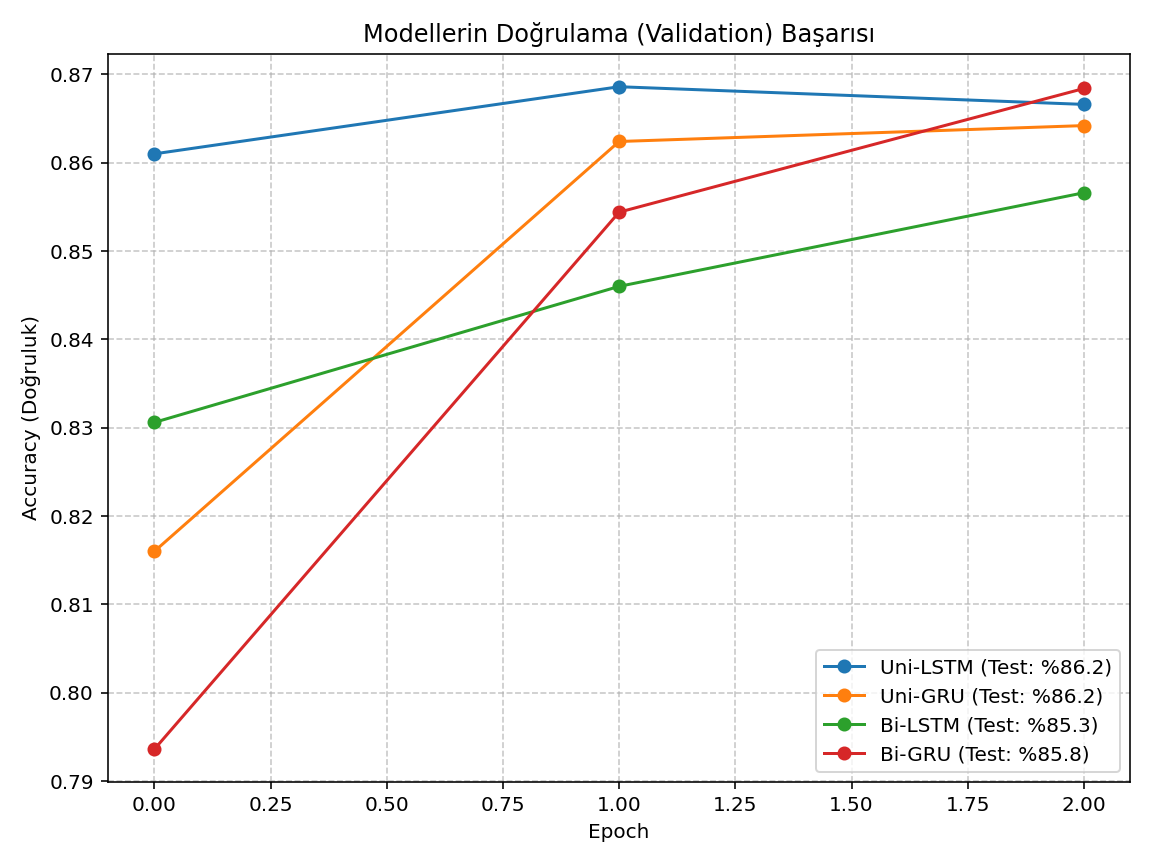
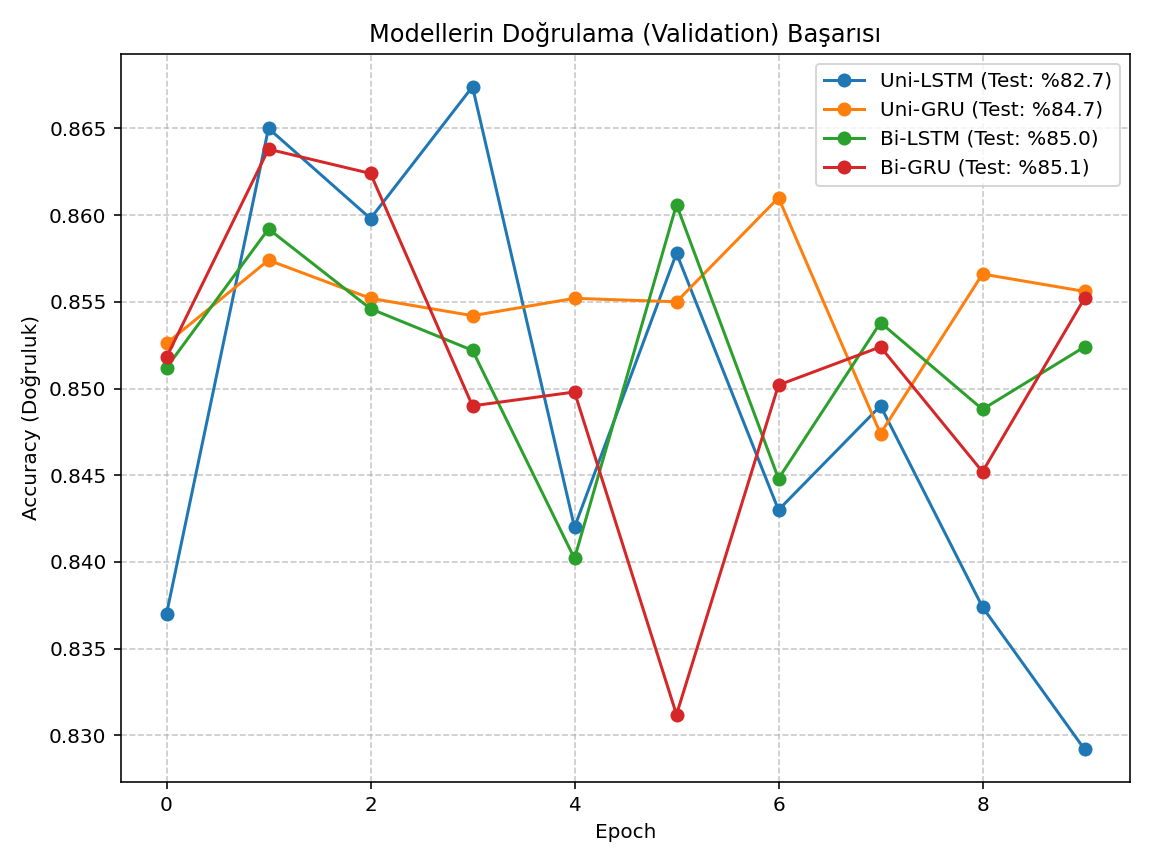
dropout-ve-early-stopping-eklendi

diff --git a/character-level-dil-modeli.py b/character-level-dil-modeli.py
@@ -3,6 +3,7 @@ import numpy as np
 import os
 import requests
 import matplotlib.pyplot as plt
+from tensorflow.keras.callbacks import EarlyStopping, ModelCheckpoint
 
 # Görsellerin kaydedileceği klasörü oluştur
 os.makedirs('images', exist_ok=True)
@@ -18,27 +19,40 @@ text = response.text
 vocab = sorted(set(text))
 char2idx = {u: i for i, u in enumerate(vocab)}
 idx2char = np.array(vocab)
-text_as_int = np.array([char2idx[c] for c in text])
+
+# YENİ: Early Stopping çalışabilsin diye veriyi Train (%90) ve Validation (%10) olarak ikiye bölüyoruz
+split_idx = int(len(text) * 0.9)
+train_text = text[:split_idx]
+val_text = text[split_idx:]
+
+train_as_int = np.array([char2idx[c] for c in train_text])
+val_as_int = np.array([char2idx[c] for c in val_text])
 
 # ==========================================
 # 2. EĞİTİM VERİSİNİN OLUŞTURULMASI
 # ==========================================
 seq_length = 100 
-char_dataset = tf.data.Dataset.from_tensor_slices(text_as_int)
-sequences = char_dataset.batch(seq_length + 1, drop_remainder=True)
+BATCH_SIZE = 64
+BUFFER_SIZE = 10000
 
 def split_input_target(chunk):
     input_text = chunk[:-1]
     target_text = chunk[1:]
     return input_text, target_text
 
-dataset = sequences.map(split_input_target)
-BATCH_SIZE = 64
-BUFFER_SIZE = 10000
-dataset = dataset.shuffle(BUFFER_SIZE).batch(BATCH_SIZE, drop_remainder=True)
+def create_dataset(data_array):
+    dataset = tf.data.Dataset.from_tensor_slices(data_array)
+    dataset = dataset.batch(seq_length + 1, drop_remainder=True)
+    dataset = dataset.map(split_input_target)
+    dataset = dataset.shuffle(BUFFER_SIZE).batch(BATCH_SIZE, drop_remainder=True)
+    return dataset
+
+# Hem eğitim hem doğrulama setlerini oluştur
+train_dataset = create_dataset(train_as_int)
+val_dataset = create_dataset(val_as_int)
 
 # ==========================================
-# 3. LSTM MODELİNİN İNŞASI
+# 3. LSTM MODELİNİN İNŞASI (DROPOUT EKLENDİ)
 # ==========================================
 vocab_size = len(vocab)
 embedding_dim = 256
@@ -46,8 +60,12 @@ rnn_units = 512
 
 def build_model(vocab_size, embedding_dim, rnn_units, batch_size):
     model = tf.keras.Sequential([
-        tf.keras.layers.Embedding(vocab_size, embedding_dim, batch_input_shape=[batch_size, None]),
-        tf.keras.layers.LSTM(rnn_units, return_sequences=True, stateful=True, recurrent_initializer='glorot_uniform'),
+        tf.keras.Input(batch_shape=[batch_size, None]),
+        tf.keras.layers.Embedding(vocab_size, embedding_dim),
+        tf.keras.layers.Dropout(0.2), # Dropout eklendi
+        tf.keras.layers.LSTM(rnn_units, return_sequences=True, stateful=True, 
+                             recurrent_initializer='glorot_uniform', dropout=0.2), # LSTM içine Dropout
+        tf.keras.layers.Dropout(0.2), # Çıktıdan önce Dropout
         tf.keras.layers.Dense(vocab_size)
     ])
     return model
@@ -60,35 +78,58 @@ def loss(labels, logits):
 model.compile(optimizer='adam', loss=loss)
 
 # ==========================================
-# 4. EĞİTİM VE GRAFİK KAYDETME
+# 4. EĞİTİM, EARLY STOPPING VE GRAFİK KAYDETME
 # ==========================================
 checkpoint_dir = './training_checkpoints'
-checkpoint_prefix = os.path.join(checkpoint_dir, "ckpt_{epoch}")
-checkpoint_callback = tf.keras.callbacks.ModelCheckpoint(filepath=checkpoint_prefix, save_weights_only=True)
+os.makedirs(checkpoint_dir, exist_ok=True)
 
-EPOCHS = 10 
-print("Eğitim başlıyor...")
-history = model.fit(dataset, epochs=EPOCHS, callbacks=[checkpoint_callback])
+# Sadece tek bir "en iyi" ağırlık dosyasını tutacağız
+best_checkpoint_path = os.path.join(checkpoint_dir, "best_char_rnn.weights.h5")
 
-# Eğitim Kaybı (Loss) Grafiğini Çizdir ve Kaydet
+# Early Stopping: val_loss 5 epoch boyunca düşmezse eğitimi durdur ve en iyiyi yükle
+early_stop = EarlyStopping(
+    monitor='val_loss', 
+    patience=5, 
+    restore_best_weights=True, 
+    verbose=1
+)
+
+checkpoint_callback = ModelCheckpoint(
+    filepath=best_checkpoint_path, 
+    save_weights_only=True,
+    save_best_only=True,
+    monitor='val_loss',
+    verbose=1
+)
+
+EPOCHS = 40 # Early stopping olduğu için limiti yüksek tutuyoruz
+print("\nEğitim başlıyor...")
+history = model.fit(
+    train_dataset, 
+    validation_data=val_dataset, # Validation verisi eklendi
+    epochs=EPOCHS, 
+    callbacks=[checkpoint_callback, early_stop]
+)
+
+# Eğitim ve Doğrulama Kaybı (Loss) Grafiğini Çizdir ve Kaydet
 plt.figure(figsize=(8, 6))
-plt.plot(history.history['loss'], marker='o', color='purple', label='Eğitim Kaybı (Training Loss)')
-plt.title('Karakter Seviyeli Dil Modeli Eğitim Kaybı')
+plt.plot(history.history['loss'], marker='o', color='purple', label='Eğitim Kaybı (Train Loss)')
+plt.plot(history.history['val_loss'], marker='s', color='orange', label='Doğrulama Kaybı (Val Loss)')
+plt.title('Karakter Seviyeli Dil Modeli Kayıp Grafiği')
 plt.xlabel('Epoch')
 plt.ylabel('Kayıp (Loss)')
 plt.grid(True, linestyle='--', alpha=0.7)
 plt.legend()
 plt.tight_layout()
 plt.savefig('images/char_rnn_loss.png')
-print("Char-RNN Loss grafiği 'images/char_rnn_loss.png' olarak kaydedildi.")
+print("\nChar-RNN Loss grafiği 'images/char_rnn_loss.png' olarak kaydedildi.")
 plt.close()
 
 # ==========================================
-# 5. METİN ÜRETİMİ
+# 5. METİN ÜRETİMİ (Keras 3 Uyumlu)
 # ==========================================
 model_gen = build_model(vocab_size, embedding_dim, rnn_units, batch_size=1)
-model_gen.load_weights(tf.train.latest_checkpoint(checkpoint_dir))
-model_gen.build(tf.TensorShape([1, None]))
+model_gen.load_weights(best_checkpoint_path) # En iyi epoch'un ağırlıklarını yüklüyoruz
 
 def generate_text(model, start_string, temperature=1.0):
     num_generate = 500 
@@ -96,16 +137,20 @@ def generate_text(model, start_string, temperature=1.0):
     input_eval = tf.expand_dims(input_eval, 0)
     text_generated = []
 
-    model.reset_states()
+    # FIX: model.reset_states() satırı yeni Keras 3 uyumluluğu için tamamen kaldırıldı.
+
     for i in range(num_generate):
         predictions = model(input_eval)
         predictions = tf.squeeze(predictions, 0)
+        
+        # Temperature ayarı: Daha düşük değerler daha güvenli/tahmin edilebilir, yüksek değerler yaratıcı sonuçlar verir
         predictions = predictions / temperature
         predicted_id = tf.random.categorical(predictions, num_samples=1)[-1,0].numpy()
+        
         input_eval = tf.expand_dims([predicted_id], 0)
         text_generated.append(idx2char[predicted_id])
 
     return start_string + ''.join(text_generated)
 
-print("\n--- Modelin Ürettiği Metin ---")
+print("\n--- Modelin Ürettiği Metin (En İyi Ağırlıklarla) ---")
 print(generate_text(model_gen, start_string=u"ROMEO: ", temperature=0.7))

diff --git a/sentiment-analysis.py b/sentiment-analysis.py
@@ -2,7 +2,8 @@ import tensorflow as tf
 from tensorflow.keras.datasets import imdb
 from tensorflow.keras.preprocessing.sequence import pad_sequences
 from tensorflow.keras.models import Sequential
-from tensorflow.keras.layers import Embedding, LSTM, GRU, Dense, Bidirectional
+from tensorflow.keras.layers import Embedding, LSTM, GRU, Dense, Bidirectional, Dropout, SpatialDropout1D
+from tensorflow.keras.callbacks import EarlyStopping
 import matplotlib.pyplot as plt
 import os
 
@@ -15,7 +16,7 @@ os.makedirs('images', exist_ok=True)
 max_features = 10000  
 maxlen = 200          
 batch_size = 64
-epochs = 3            
+epochs = 15 # Early stopping eklediğimiz için yüksek tutabiliriz, nasılsa kendi duracak 
 embedding_dim = 128
 
 print("IMDB Veri seti yükleniyor...")
@@ -26,22 +27,31 @@ x_train = pad_sequences(x_train, maxlen=maxlen)
 x_test = pad_sequences(x_test, maxlen=maxlen)
 
 # ==========================================
-# 2. MODEL OLUŞTURMA FONKSİYONU
+# 2. MODEL OLUŞTURMA FONKSİYONU (GÜNCELLENDİ)
 # ==========================================
 def build_model(model_type='lstm', bidirectional=False):
     model = Sequential()
-    model.add(Embedding(max_features, embedding_dim, input_length=maxlen))
     
+    # Yeni Keras standardına uygun Input katmanı
+    model.add(tf.keras.Input(shape=(maxlen,)))
+    
+    model.add(Embedding(max_features, embedding_dim))
+    # YENİ: Embedding katmanında rastgele özellikleri kapatarak ezberlemeyi önle
+    model.add(SpatialDropout1D(0.2)) 
+    
+    # YENİ: RNN katmanlarına dropout eklendi
     if model_type == 'lstm':
-        rnn_layer = LSTM(64)
+        rnn_layer = LSTM(64, dropout=0.2) 
     else:
-        rnn_layer = GRU(64)
+        rnn_layer = GRU(64, dropout=0.2)
         
     if bidirectional:
         model.add(Bidirectional(rnn_layer))
     else:
         model.add(rnn_layer)
         
+    # YENİ: Çıktıdan hemen önce son bir Dropout katmanı
+    model.add(Dropout(0.2))
     model.add(Dense(1, activation='sigmoid'))
     
     model.compile(loss='binary_crossentropy', 
@@ -59,6 +69,13 @@ scenarios = [
 histories = {}
 test_results = {}
 
+# YENİ: Early Stopping Ayarı
+# val_accuracy 3 adım boyunca artmazsa dur ve en iyi modeli geri yükle
+early_stop = EarlyStopping(monitor='val_accuracy', 
+                           patience=3, 
+                           restore_best_weights=True,
+                           verbose=1)
+
 # ==========================================
 # 3. EĞİTİM VE TEST DÖNGÜSÜ
 # ==========================================
@@ -74,6 +91,7 @@ for s in scenarios:
                         batch_size=batch_size,
                         epochs=epochs,
                         validation_split=0.2, 
+                        callbacks=[early_stop], # Callback eklendi
                         verbose=1)
     
     histories[name] = history.history
@@ -84,8 +102,10 @@ for s in scenarios:
 # ==========================================
 # 4. SONUÇLARIN GÖRSELLEŞTİRİLMESİ VE KAYDEDİLMESİ
 # ==========================================
+plt.figure(figsize=(14, 6))
+
 # 1. Grafik: Accuracy (Doğruluk)
-plt.figure(figsize=(8, 6))
+plt.subplot(1, 2, 1)
 for name, hist in histories.items():
     label_name = f"{name} (Test: %{test_results[name]*100:.1f})"
     plt.plot(hist['val_accuracy'], label=label_name, marker='o')
@@ -94,13 +114,9 @@ plt.ylabel('Accuracy (Doğruluk)')
 plt.xlabel('Epoch')
 plt.legend()
 plt.grid(True, linestyle='--', alpha=0.7)
-plt.tight_layout()
-plt.savefig('images/accuracy_plot.png') # Görseli kaydet
-print("Accuracy grafiği 'images/accuracy_plot.png' olarak kaydedildi.")
-plt.close()
 
 # 2. Grafik: Loss (Kayıp)
-plt.figure(figsize=(8, 6))
+plt.subplot(1, 2, 2)
 for name, hist in histories.items():
     plt.plot(hist['val_loss'], label=name, marker='s')
 plt.title('Modellerin Doğrulama (Validation) Kaybı')
@@ -108,7 +124,8 @@ plt.ylabel('Loss (Kayıp/Hata)')
 plt.xlabel('Epoch')
 plt.legend()
 plt.grid(True, linestyle='--', alpha=0.7)
+
 plt.tight_layout()
-plt.savefig('images/loss_plot.png') # Görseli kaydet
-print("Loss grafiği 'images/loss_plot.png' olarak kaydedildi.")
-plt.close()
+plt.savefig('images/accuracy_loss_combined.png')
+print("\nBirleştirilmiş grafik 'images/accuracy_loss_combined.png' olarak kaydedildi.")
+plt.show()

diff --git a/README.md b/README.md
@@ -14,11 +14,11 @@ Bu depo, Doğal Dil İşleme (NLP) ve Tekrarlayan Sinir Ağları (RNN) mimariler
 
 Bu projenin amacı, IMDB film eleştirileri veri setini kullanarak metinlerin olumlu (positive) veya olumsuz (negative) olduğunu tahmin eden ikili sınıflandırma (binary classification) modelleri geliştirmektir. 
 
-Çalışma kapsamında **%85+ test doğruluğu (accuracy)** hedeflenmiş ve 4 farklı RNN mimarisi karşılaştırılmıştır:
-1. Unidirectional LSTM
-2. Unidirectional GRU
-3. Bidirectional LSTM
-4. Bidirectional GRU
+10 epoch süren eğitim sonucunda modellerin unseen (görülmemiş) test verisi üzerindeki nihai doğruluk oranları şu şekildedir:
+* **Uni-LSTM:** %82.72
+* **Uni-GRU:** %84.71
+* **Bi-LSTM:** %84.98
+* **Bi-GRU:** %85.06 🏆
 
 ### 📊 Model Performansları ve Karşılaştırma
 
@@ -30,8 +30,9 @@ Aşağıdaki grafiklerde, 4 farklı modelin eğitim süreci boyunca gösterdiği
 ![Modellerin Kayıp Karşılaştırması](images/loss_plot.png)
 *Şekil 2: Modellerin epoch bazlı kayıp (loss) karşılaştırması.*
 
-**Sonuçlar:** * Çift yönlü (Bidirectional) modeller, metni hem sağdan sola hem de soldan sağa işledikleri için bağlamı daha iyi yakalamış ve tek yönlülere kıyasla daha yüksek test doğruluğu sunmuştur.
-* GRU modelleri, LSTM'e kıyasla daha az parametreye sahip oldukları için daha hızlı eğitilmiş, ancak benzer doğruluk oranlarına ulaşmayı başarmıştır.
+**Proje Çıktıları ve Analiz:** * Çift yönlü (Bidirectional) modeller bağlamı daha iyi yakalayarak **%85** başarı hedefini aşmış ve en yüksek skoru (Bi-GRU) elde etmiştir.
+* GRU hücreleri, bu spesifik veri setinde daha az işlem maliyetiyle LSTM'den daha yüksek doğruluk oranlarına ulaşmıştır.
+* Eğitim ve Doğrulama (Validation) eğrileri incelendiğinde, modellerin 3. epoch'tan sonra *overfitting* (ezberleme) eğilimine girdiği gözlemlenmiştir. Bu durum, gelecekteki geliştirmelerde `EarlyStopping` veya daha yüksek `Dropout` oranları kullanılarak optimize edilebilir.
 
 ---
 
